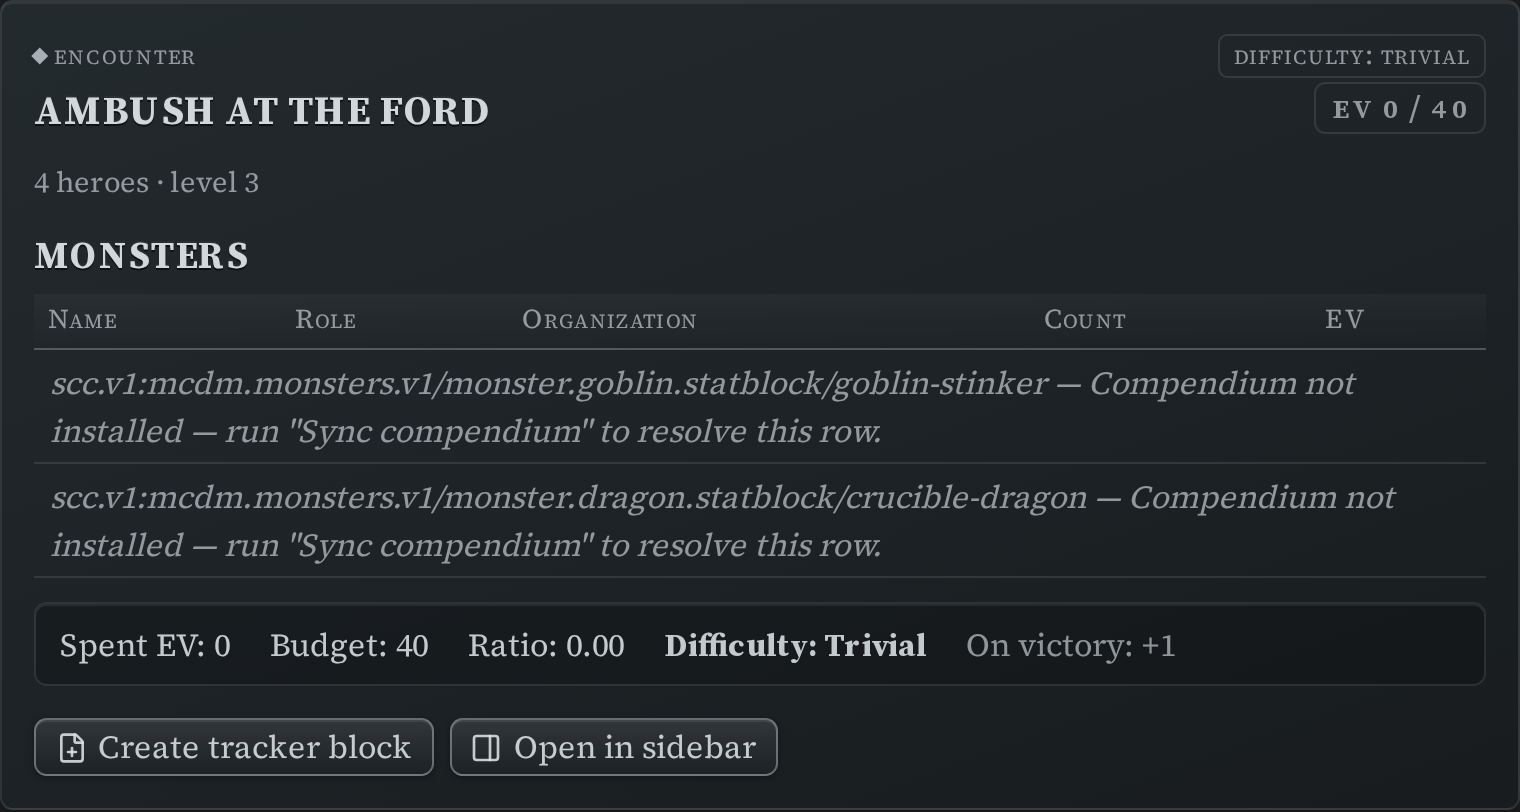
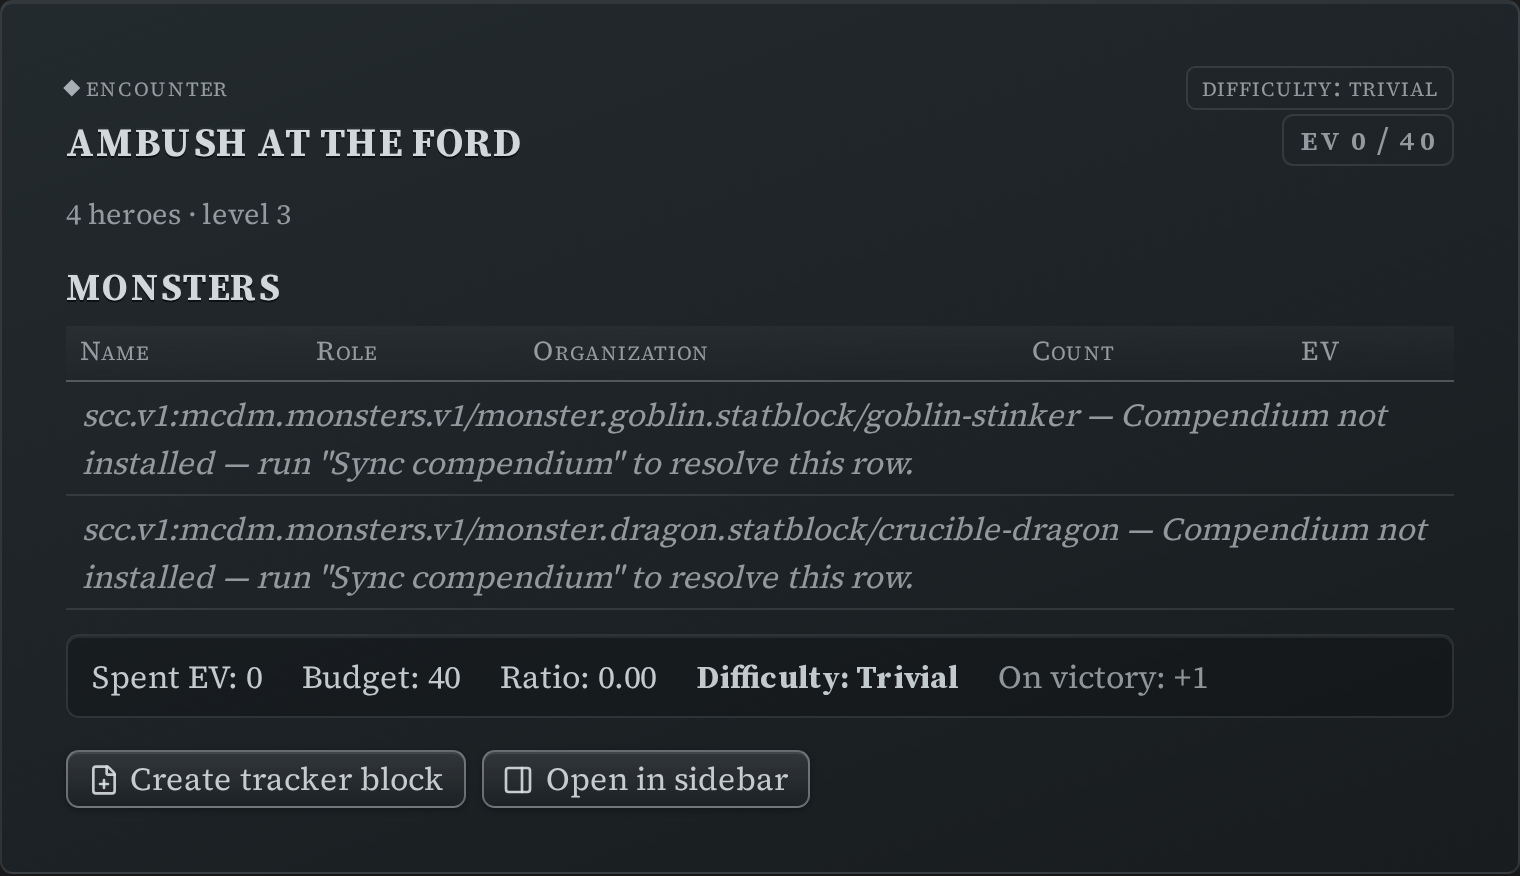
fix(steel,docs): SC-152 fresh-eyes fix round — regenerate stale docs images, kill statgrid comment rot, add rail overflow guard
Review findings on the round-3 branch, all addressed:

1 (MEDIUM, blocking): docs/Media images had drifted behind the branch's own
  later rounds — skills.png still showed the plated two-viewport wash Scott
  rejected, characteristics/hero/sample still showed the retired statgrid look.
  Regenerated via docs-shots --browser-only; the images now show the shipped
  unplated skills and the unified statblock rail (plus drift from sibling
  landings the old images predated).

2 (LOW): the scale-knob comment claimed the merged cell 'scales as one' — no
  rule does that. Reworded to the truth: the knobs are inert by design at the
  opt-in merged pair (the statblock's own merged rhythm).

3 (LOW): comment rot — ds-char's view/test headers and two stylesheet comments
  still described the statgrid era (one also still called one/off 'the DEFAULT
  pair', stale since SC-123 flipped it). All rewritten; the characteristics/hero
  statgrid arms (now unreachable DOM) are deleted, and the values-row CSS
  contract test pins the one-root shape so a resurrected arm fails loudly.

4 (LOW): the old statgrid carried overflow-x:auto; the rail has never had it.
  The two NEW rail surfaces (ds-char, hero region) keep the safety net as a
  Steel screen-only rule — print and the statblock's own rail untouched.

tsc/lint clean; jest 3029 passed / 1 skipped.

diff --git a/styles-source.css b/styles-source.css
@@ -2550,18 +2550,18 @@ code.dsa {
    "they are exactly the same data"). `:is()` keeps the specificity identical to the
    old single-attribute prefix, so nothing moves for the statblock.
    ────────────────────────────────────────────────────────────────────
-   DOM CONTRACT, and why it is conditional. At the DEFAULT pair
-   (charline=one, charbox=off) statblock/view.ts still emits ONE merged text node
-   per cell ("Might +2") — the exact node the LEGACY-FREEZE gate is pinned to (a
+   DOM CONTRACT, and why it is conditional. At the MERGED pair
+   (charline=one, charbox=off) the shared builder emits ONE merged text node per
+   cell ("Might +2") — the shape the old LEGACY-FREEZE gate was pinned to (a
    label/value split was tried in SC-10 Task 4 and reverted: two inline <span>s
    shifted Chromium's sub-pixel text shaping enough to move bytes in glyphs the
    split never touched). Any OTHER combination builds the three-part split
-   (.dse-sb__char-box / -v / -l, the site's `.sb__char-*`), so the frozen shots keep
-   the merged node and only opted-in users ever see the split. That also means every
-   selector below is unreachable at defaults, which is what lets them be
-   theme-agnostic (Legacy gets the modes too) without touching a frozen pixel.
-   `one` is the DEFAULT value, so it is never named: the one-line arms are keyed off
-   the boxed-letter values, the only way to reach split DOM at charline=one. -- */
+   (.dse-sb__char-box / -v / -l, the site's `.sb__char-*`). NOTE the defaults
+   MOVED: SC-123 shipped `sbCharLine: 'two'` as the default (prefs/catalog.ts), so
+   the split IS the default shape now and the two-line arms below are live out of
+   the box — the frozen `*--steel-print.png` bytes were re-pinned then. `one` is
+   still never named in a selector: the one-line arms are keyed off the
+   boxed-letter values, the only way to reach split DOM at charline=one. -- */
 .dse-sb__char-box {
 	display: none;
 	box-sizing: border-box;
@@ -2673,8 +2673,10 @@ code.dsa {
    both calcs below compute to the statblock's own values, so an un-knobbed ds-char
    is pixel-identical to the statblock rail. Scoped to the characteristics element
    only — the statblock and the hero region never carry the vars and must never
-   inherit a knob. The knobs only differentiate value/label in the SPLIT shapes
-   (the SC-123 default); the merged cell is one text node and scales as one. */
+   inherit a knob. The knobs apply in the SPLIT shapes only (the SC-123 default):
+   the merged cell is one text node with no -v/-l spans for these rules to reach,
+   so at the opt-in merged pair the knobs are INERT by design — anyone flipping
+   Characteristics to "One line" gets the statblock's own merged rhythm. */
 [data-dse-element='characteristics'][data-dse-sb-charline='two'] .dse-sb__char-v {
 	font-size: calc(var(--font-ui-large) * 1.4 * var(--dse-value-scale, 1));
 }
@@ -2683,6 +2685,17 @@ code.dsa {
 }
 [data-dse-element='characteristics'] .dse-sb__char-l {
 	font-size: calc(1em * var(--dse-label-scale, 1));
+}
+
+/* -- SC-152 round-3 review (finding 4): the old statgrid carried `overflow-x: auto`,
+   so a too-narrow ds-char / hero region scrolled instead of spilling. The statblock
+   rail has never had that guard, and unification adopts the rail — but the two NEW
+   surfaces keep the safety net, screen-only so print (which always fits at the
+   harness width) is untouched and the statblock's own rail stays exactly as it
+   ships everywhere else. */
+[data-dse-theme='steel']:not([data-dse-print="on"])[data-dse-element='characteristics'] .dse-sb__chars,
+[data-dse-theme='steel']:not([data-dse-print="on"])[data-dse-element='hero'] .dse-sb__chars {
+	overflow-x: auto;
 }
 
 /* -- villain-actions pref (SC-123 / FOLLOWUPS #54 — the site's data-sb-villain):
@@ -2916,14 +2929,13 @@ code.dsa {
    --dse-label-scale custom properties set by the views (SC-5: sanctioned --dse-*
    geometry via setProperty — never inline font-size); --dse-surface is the Steel
    theme's "engraved plate" hook (D3), Legacy stays the bare row.
-   [data-dse-element="hero"] (D7 Task 9) reuses the SAME kit builder
-   (renderCharacteristicsGrid, framework/kit/CharacteristicsGrid.ts) for its
-   Characteristics region — added here so that region gets this same flex grid instead
-   of falling through to an unstyled div stack (bug fix, SC-10 task 6: the hero sheet's
-   root carries [data-dse-element="hero"], which this rule never matched). */
-[data-dse-element="values-row"] .dse-statgrid,
-[data-dse-element="characteristics"] .dse-statgrid,
-[data-dse-element="hero"] .dse-statgrid {
+   SC-152 round 3: values-row is the grammar's ONLY remaining element user —
+   ds-characteristics and the hero sheet's Characteristics region moved onto the
+   statblock's own `.dse-sb__chars` row (framework/kit/CharacteristicsGrid.ts,
+   renderCharacteristicsRow; Scott: "they are exactly the same data"), so their
+   arms left this selector (a `.dse-statgrid` can no longer exist under either
+   root). values-row builds its grid inline in values-row/view.ts. */
+[data-dse-element="values-row"] .dse-statgrid {
 	width: 100%;
 	overflow-x: auto;
 	display: flex;
@@ -2954,9 +2966,7 @@ code.dsa {
    rewritten by esbuild's CSS minifier into bare declarations after a nested rule —
    which older Chromium drops. */
 @media (max-width: 600px) {
-	[data-dse-element="values-row"] .dse-statgrid,
-	[data-dse-element="characteristics"] .dse-statgrid,
-	[data-dse-element="hero"] .dse-statgrid {
+	[data-dse-element="values-row"] .dse-statgrid {
 		flex-direction: column;
 		align-items: center;
 
@@ -8027,9 +8037,10 @@ body.theme-light [data-dse-theme='steel']:not([data-dse-print="on"]) .dse-hero {
 	box-shadow: var(--dse-bevel);
 }
 
-/* -- 3b. SC-152: the stat ROW (ds-characteristics / ds-values-row, and the hero
-      sheet's own Characteristics region — all three render the same
-      `.dse-statgrid` from framework/kit/CharacteristicsGrid.ts) is the same
+/* -- 3b. SC-152: the stat ROW (ds-values-row — since round 3 the grammar's only
+      element user; it builds its `.dse-statgrid` inline in values-row/view.ts,
+      while ds-characteristics and the hero region render the statblock's
+      `.dse-sb__chars` rail instead) is the same
       value-over-label grammar the statblock's primary row already draws as boxed
       cells (`.dse-sb__item`, ~6717 + its small-caps `-l` twin). It was the one
       character-sheet panel whose structure already MATCHED a shipped Steel

diff --git a/test/dom/elements/values-row.test.ts b/test/dom/elements/values-row.test.ts
@@ -225,19 +225,20 @@ describe('Plan 09 Task 1: values-row rendered through the REAL ElementPipeline (
 		expect(styleGuardFindings(src)).toEqual([]);
 	});
 
-	test('CSS contract: .dse-statgrid is scoped under ALL THREE element roots (incl. hero, SC-10 task 6), consumes --dse-fg/--dse-fg-muted + the scale properties, and keeps the @media column flip', () => {
+	test('CSS contract: .dse-statgrid is scoped under the values-row root ONLY (SC-152 round 3 moved ds-char + the hero region to the statblock rail), consumes --dse-fg/--dse-fg-muted + the scale properties, and keeps the @media column flip', () => {
 		const sheet = fs.readFileSync(path.join(__dirname, '../../../styles-source.css'), 'utf8');
 
-		// One shared block scoped under all three [data-dse-element] roots (D2 §3.2/3.3;
-		// [data-dse-element="hero"] added SC-10 task 6 — the hero sheet reuses the same
-		// kit builder for its Characteristics region and needs the same flex grid, not an
-		// unstyled div stack).
-		expect(sheet).toMatch(
-			/\[data-dse-element="values-row"\]\s+\.dse-statgrid,\s*\n\s*\[data-dse-element="characteristics"\]\s+\.dse-statgrid,\s*\n\s*\[data-dse-element="hero"\]\s+\.dse-statgrid\s*\{/,
-		);
+		// SC-152 round 3: values-row is the statgrid grammar's ONLY element user —
+		// ds-characteristics and the hero sheet's Characteristics region render the
+		// statblock's `.dse-sb__chars` rail now, so their arms LEFT this selector.
+		// A resurrected characteristics/hero statgrid arm here would be dead CSS at
+		// best and a cascade hazard at worst — pin the one-root shape.
+		expect(sheet).toMatch(/\[data-dse-element="values-row"\]\s+\.dse-statgrid\s*\{/);
+		expect(sheet).not.toMatch(/\[data-dse-element="characteristics"\]\s+\.dse-statgrid/);
+		expect(sheet).not.toMatch(/\[data-dse-element="hero"\]\s+\.dse-statgrid/);
 
 		const block = sheet.match(
-			/\[data-dse-element="values-row"\]\s+\.dse-statgrid,\s*\n\s*\[data-dse-element="characteristics"\]\s+\.dse-statgrid,\s*\n\s*\[data-dse-element="hero"\]\s+\.dse-statgrid\s*\{[\s\S]*?\n\}/,
+			/\[data-dse-element="values-row"\]\s+\.dse-statgrid\s*\{[\s\S]*?\n\}/,
 		);
 		expect(block).not.toBeNull();
 		expect(block![0]).toMatch(/var\(--dse-fg\)/);
@@ -246,15 +247,15 @@ describe('Plan 09 Task 1: values-row rendered through the REAL ElementPipeline (
 		expect(block![0]).toMatch(/calc\(var\(--dse-label-scale/);
 
 		// Today's <=600px column flip, preserved (D2 §3.2 "today's @media column flip") —
-		// a top-level media rule re-selecting all three statgrid roots (see the CSS
+		// a top-level media rule re-selecting the statgrid root (see the CSS
 		// comment: a nested `& {}` inside @media gets mangled by esbuild's minifier).
 		const media = sheet.match(
-			/@media\s*\(max-width:\s*600px\)\s*\{\s*\n\s*\[data-dse-element="values-row"\]\s+\.dse-statgrid,\s*\n\s*\[data-dse-element="characteristics"\]\s+\.dse-statgrid,\s*\n\s*\[data-dse-element="hero"\]\s+\.dse-statgrid\s*\{[\s\S]*?\n\}/,
+			/@media\s*\(max-width:\s*600px\)\s*\{\s*\n\s*\[data-dse-element="values-row"\]\s+\.dse-statgrid\s*\{[\s\S]*?\n\}/,
 		);
 		expect(media).not.toBeNull();
 		expect(media![0]).toMatch(/flex-direction:\s*column/);
 
-		// The old legacy class block is gone (both elements now render the statgrid).
+		// The old legacy class block is gone.
 		expect(sheet).not.toMatch(/\.ds-values-row-container/);
 		expect(sheet).not.toMatch(/\.ds-characteristics-container/);
 	});

diff --git a/src/elements/characteristics/view.ts b/src/elements/characteristics/view.ts
@@ -1,23 +1,26 @@
-// Plan 09 Task 1 (D2 §3.3) — CharacteristicsElementView on the shared `.dse-statgrid`
-// grammar.
+// Plan 09 Task 1 (D2 §3.3), rebuilt for SC-152 round 3 — CharacteristicsElementView on
+// the statblock's own `.dse-sb__chars` rail (Scott: "The characteristics here should
+// probably be the same css and code that is used in the statblocks… they are exactly
+// the same data").
 //
-// The redesign folds the deleted legacy Characteristics/CharacteristicsView into onMount:
-// one flat `.dse-statgrid` of the five fixed characteristic `.dse-statgrid__cell`s, each
-// a `__value` (big, --dse-fg) over a `__label` (muted, --dse-fg-muted) — the SAME grammar
-// values-row/view.ts renders; the root's [data-dse-element="characteristics"] attr is
-// what scopes/distinguishes it at the CSS level (styles-source.css scopes `.dse-statgrid`
-// under both element roots).
+// One shared builder (framework/kit/CharacteristicsGrid.ts, renderCharacteristicsRow)
+// renders the row for the statblock, this element and the hero sheet's Characteristics
+// region: signed values via formatCharacteristic, and the SC-123 merged/split shape
+// contract driven by the same `sbCharLine`/`sbCharBox` preferences (resolved through
+// the kit's charsAreSplit so the three surfaces can never disagree). Those two prefs
+// change the DOM SHAPE, so this view subscribes them to a remount — the statblock
+// constructor's exact pattern. The old element-private `.dse-statgrid` grammar remains
+// only for ds-values-row (values-row/view.ts builds it inline).
 //
-// D7 Task 1 (spec §2.1/§2.3): the grid builder now lives in the shared kit core
-// (framework/kit/CharacteristicsGrid.ts, renderCharacteristicsGrid) — zero behavior
-// change: identical DOM, identical --dse-value-scale/--dse-label-scale geometry.
-//
-// SC-5 eviction (D2 §5): the value_height/name_height YAML knobs no longer become inline
+// SC-5 eviction (D2 §5): the value_height/name_height YAML knobs never become inline
 // `font-size` — they arrive as the --dse-value-scale / --dse-label-scale custom
-// properties (sanctioned `--dse-*` geometry via setProperty), consumed by the
-// stylesheet's `calc(var(--dse-…-scale) * 1em)` font sizes. No other `.style` access, no
-// color anywhere in code. Static element: no persistence, no listeners (the legacy
-// processor's manual capture-phase click shield stays replaced by the pipeline default).
+// properties (sanctioned `--dse-*` geometry via setProperty), consumed by
+// characteristics-scoped stylesheet calcs; value_height is normalised ÷3 (its old
+// statgrid default) so scale 1 = the statblock's own numeral size. The knobs apply in
+// the split shapes only — the merged cell is one text node, no spans to scale. No
+// other `.style` access, no color anywhere in code. No persistence (the legacy
+// processor's manual capture-phase click shield stays replaced by the pipeline
+// default).
 import { ElementView } from '@/framework/view';
 import { charsAreSplit, renderCharacteristicsRow } from '@/framework/kit';
 import type { RenderContext } from '@/framework/context';

diff --git a/test/dom/elements/characteristics.test.ts b/test/dom/elements/characteristics.test.ts
@@ -1,14 +1,11 @@
-// Plan 09 Task 1 (D2 §3.3) — Characteristics on the shared `.dse-statgrid` grammar: the
-// characteristicsElement definition + CharacteristicsElementView, driven through the REAL
-// ElementPipeline (static-element harness mirroring feature.test.ts / values-row.test.ts;
-// T-5 registration blocks mirroring their onload() suites). The redesign folds the deleted
-// legacy Characteristics/CharacteristicsView into onMount: one `.dse-statgrid` of the five
-// fixed characteristic `__cell`s (`__value` over `__label`) — the SAME grammar
-// values-row/view.ts renders ([data-dse-element] distinguishes them at the CSS level; the
-// shared CSS contract lives in values-row.test.ts). SC-5 eviction: value_height/name_height
-// become --dse-value-scale/--dse-label-scale custom properties — never inline font-size,
-// never inline color. Unlike Values Row, the legacy processor DID arm the capture-phase
-// click shield, so the framework default (shield ON, noClickShield unset) stays.
+// Plan 09 Task 1 (D2 §3.3), rebuilt for SC-152 round 3 — the characteristics element on
+// the statblock's shared `.dse-sb__chars` rail (kit renderCharacteristicsRow): split
+// shape at the SC-123 default prefs, merged one-text-node cells at the opt-in one/off
+// pair (with a remount on pref change), signed values, and the value_height/name_height
+// knobs as normalised --dse-value-scale/--dse-label-scale setProperty geometry (SC-5:
+// never inline font-size). The kit builder's own contract is pinned in
+// test/dom/kit/characteristicsGrid.test.ts; this suite pins the ELEMENT: pipeline
+// wiring, root attrs, shield, error card, and single registration.
 import * as fs from 'fs';
 import * as path from 'path';
 import { ElementPipeline } from '../../../src/framework/pipeline';
